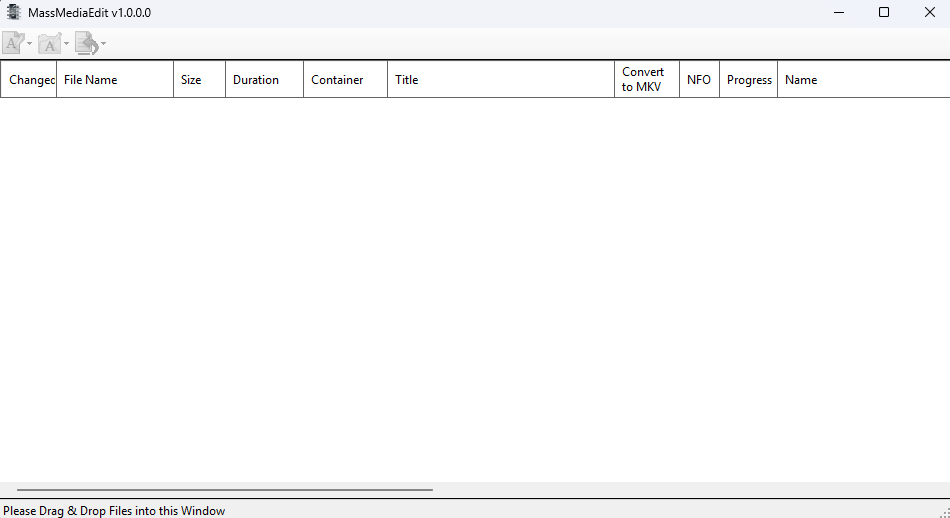
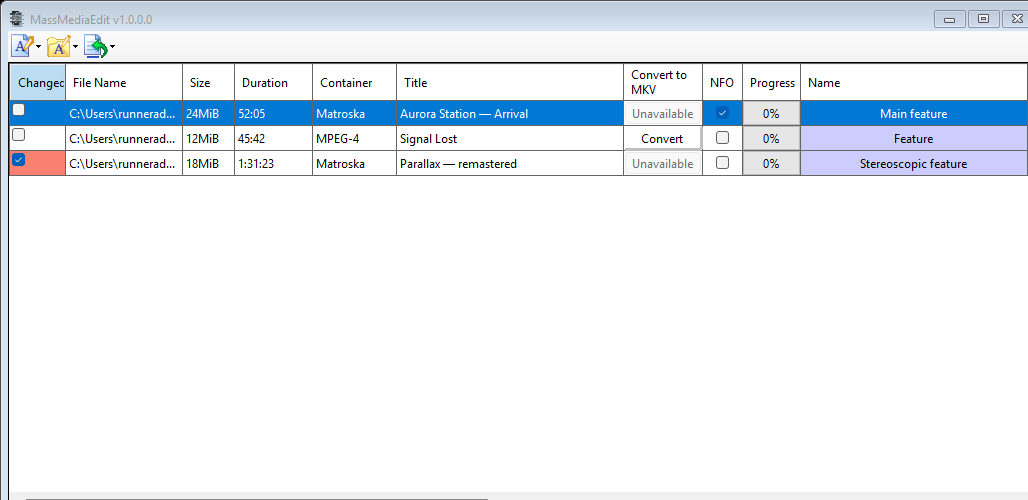
Generate README screenshot with representative demo media (#8)
* + generate README screenshot with representative demo media

* * refresh the application screenshot

---------

Changed region(s): [[0.0, 0.0, 1.0, 1.0]]

diff --git a/MassMediaEdit/Documentation/ScreenshotDemoData.cs b/MassMediaEdit/Documentation/ScreenshotDemoData.cs
@@ -1,0 +1,196 @@
+using System;
+using System.Collections.Generic;
+using System.Drawing;
+using System.Drawing.Imaging;
+using System.IO;
+using System.Windows.Forms;
+using Classes;
+using Models;
+
+namespace MassMediaEdit.Documentation;
+
+/// <summary>
+/// Creates representative, deterministic rows for generated documentation screenshots.
+/// This path deliberately bypasses MediaInfo and the other external tools so screenshot generation
+/// cannot depend on binaries, codecs, or media files installed on the runner.
+/// </summary>
+internal sealed class ScreenshotDemoData : IDisposable {
+  public const string Argument = "--screenshot-demo";
+
+  private readonly DirectoryInfo _directory;
+
+  private ScreenshotDemoData(DirectoryInfo directory, IReadOnlyList<GuiMediaItem> items) {
+    this._directory = directory;
+    this.Items = items;
+  }
+
+  public IReadOnlyList<GuiMediaItem> Items { get; }
+
+  /// <summary>
+  /// Builds a small data set that exercises the grid's important states: MKV editing, conversion
+  /// from another container, NFO presence, two audio tracks, pending changes, and stereoscopic video.
+  /// </summary>
+  public static ScreenshotDemoData Create() {
+    var directory = new DirectoryInfo(Path.Combine(Path.GetTempPath(), "MassMediaEdit", "ScreenshotDemo"));
+    if (directory.Exists)
+      directory.Delete(recursive: true);
+    directory.Create();
+
+    var aurora = _CreateItem(
+      directory,
+      "Aurora.Station.S01E01.2160p.mkv",
+      24L * 1024 * 1024,
+      "Matroska",
+      3_125_000,
+      "Aurora Station — Arrival",
+      "Main feature",
+      "HEVC",
+      3840,
+      2160,
+      18_000_000,
+      false,
+      new AudioDefinition("de", "DTS", 48_000, 6, 1_509_000, true),
+      new AudioDefinition("en", "AAC", 48_000, 2, 192_000, false)
+    );
+    File.WriteAllText(Path.ChangeExtension(aurora.MediaFile.File.FullName, ".nfo"), "<movie><title>Aurora Station — Arrival</title></movie>");
+
+    var signalLost = _CreateItem(
+      directory,
+      "Signal.Lost.1080p.mp4",
+      12L * 1024 * 1024,
+      "MPEG-4",
+      2_742_000,
+      "Signal Lost",
+      "Feature",
+      "AVC",
+      1920,
+      1080,
+      7_500_000,
+      false,
+      new AudioDefinition("en", "AAC", 48_000, 2, 256_000, true)
+    );
+
+    var parallax = _CreateItem(
+      directory,
+      "Parallax.3D.1080p.mkv",
+      18L * 1024 * 1024,
+      "Matroska",
+      5_483_000,
+      "Parallax",
+      "Stereoscopic feature",
+      "AVC",
+      1920,
+      1080,
+      12_000_000,
+      true,
+      new AudioDefinition("ja", "FLAC", 48_000, 2, 980_000, true),
+      new AudioDefinition("en", "AC-3", 48_000, 6, 640_000, false)
+    );
+    parallax.Title = "Parallax — remastered";
+
+    return new ScreenshotDemoData(directory, [aurora, signalLost, parallax]);
+  }
+
+  /// <summary>
+  /// Applies the documentation-only presentation state to the real form and optionally captures it
+  /// after WinForms has shown and laid out the window.
+  /// </summary>
+  public void ApplyTo(MainForm form, FileInfo? screenshotOutput = null) {
+    ArgumentNullException.ThrowIfNull(form);
+
+    form.StartPosition = FormStartPosition.CenterScreen;
+    form.ClientSize = new Size(1180, 500);
+    form.AddItems(this.Items);
+
+    if (screenshotOutput is null)
+      return;
+
+    form.Shown += (_, _) => form.BeginInvoke(new Action(() => {
+      screenshotOutput.Directory?.Create();
+      form.Refresh();
+
+      using var bitmap = new Bitmap(form.ClientSize.Width, form.ClientSize.Height);
+      form.DrawToBitmap(bitmap, new Rectangle(Point.Empty, bitmap.Size));
+      bitmap.Save(screenshotOutput.FullName, ImageFormat.Png);
+      form.Close();
+    }));
+  }
+
+  public void Dispose() {
+    try {
+      if (this._directory.Exists)
+        this._directory.Delete(recursive: true);
+    } catch (IOException) {
+      // A killed screenshot process may still have a handle in flight. The runner is ephemeral.
+    } catch (UnauthorizedAccessException) {
+      // Cleanup is best-effort and must not turn a successful application close into an error.
+    }
+  }
+
+  private static GuiMediaItem _CreateItem(
+    DirectoryInfo directory,
+    string fileName,
+    long fileSize,
+    string container,
+    long durationInMilliseconds,
+    string title,
+    string videoName,
+    string videoFormat,
+    int width,
+    int height,
+    int videoBitRate,
+    bool isStereoscopic,
+    params AudioDefinition[] audioDefinitions
+  ) {
+    var file = new FileInfo(Path.Combine(directory.FullName, fileName));
+    using (var stream = file.Create())
+      stream.SetLength(fileSize);
+    file.Refresh();
+
+    List<MediaStream> streams = [
+      new GeneralStream(_Section(
+        ("codec", "Container"),
+        ("codec", container),
+        ("duration", durationInMilliseconds.ToString()),
+        ("title", title)
+      )),
+      new VideoStream(_Section(
+        ("title", videoName),
+        ("format", videoFormat),
+        ("width", width.ToString()),
+        ("height", height.ToString()),
+        ("bit rate", videoBitRate.ToString()),
+        ("MultiView_Count", isStereoscopic ? "2" : "1"),
+        ("MultiView_Layout", isStereoscopic ? "Side by side (left eye is first)" : string.Empty)
+      ))
+    ];
+
+    foreach (var audio in audioDefinitions)
+      streams.Add(new AudioStream(_Section(
+        ("default", audio.IsDefault ? "Yes" : "No"),
+        ("language", audio.Language),
+        ("format", audio.Format),
+        ("sampling rate", audio.SamplingRate.ToString()),
+        ("channel(s)", audio.Channels.ToString()),
+        ("bit rate", audio.BitRate.ToString())
+      )));
+
+    return GuiMediaItem.FromMediaFile(new MediaFile(file, streams.ToArray()));
+  }
+
+  private static SectionDictionary _Section(params (string Key, string Value)[] values) {
+    var result = new SectionDictionary();
+    foreach (var (key, value) in values)
+      result.Add(key, value);
+    return result;
+  }
+
+  private readonly record struct AudioDefinition(
+    string Language,
+    string Format,
+    int SamplingRate,
+    int Channels,
+    int BitRate,
+    bool IsDefault
+  );
+}

diff --git a/MassMediaEdit/Program.cs b/MassMediaEdit/Program.cs
@@ -1,6 +1,9 @@
-using System.IO;
+using System;
+using System.IO;
+using System.Linq;
 using System.Windows.Forms;
 using Classes;
+using MassMediaEdit.Documentation;
 using MassMediaEdit.Presenters;
 using MassMediaEdit.Properties;
 using MassMediaEdit.Services;
@@ -21,6 +24,12 @@ internal static class Program {
     Application.EnableVisualStyles();
     Application.SetCompatibleTextRenderingDefault(false);
 
+    var screenshotArgument = args?.FirstOrDefault(arg =>
+      string.Equals(arg, ScreenshotDemoData.Argument, StringComparison.OrdinalIgnoreCase)
+      || arg.StartsWith(ScreenshotDemoData.Argument + "=", StringComparison.OrdinalIgnoreCase)
+    );
+    using var screenshotDemo = screenshotArgument is not null ? ScreenshotDemoData.Create() : null;
+
     // Create the main form (View in MVP)
     using var mainForm = new MainForm();
 
@@ -32,8 +41,16 @@ internal static class Program {
     var presenter = new MainPresenter(backgroundTaskRunner, uiSynchronizer);
     presenter.Initialize(mainForm);
 
-    // Handle command-line arguments
-    if (args is { Length: > 0 } && !string.IsNullOrWhiteSpace(args[0]))
+    // Documentation screenshots use deterministic, pre-parsed media rows and never invoke the external tools.
+    if (screenshotDemo is not null) {
+      FileInfo? screenshotOutput = null;
+      if (screenshotArgument!.StartsWith(ScreenshotDemoData.Argument + "=", StringComparison.OrdinalIgnoreCase)) {
+        var outputPath = screenshotArgument[(ScreenshotDemoData.Argument.Length + 1)..];
+        if (!string.IsNullOrWhiteSpace(outputPath))
+          screenshotOutput = new FileInfo(Path.GetFullPath(outputPath));
+      }
+      screenshotDemo.ApplyTo(mainForm, screenshotOutput);
+    } else if (args is { Length: > 0 } && !string.IsNullOrWhiteSpace(args[0]))
       presenter.AddFile(new FileInfo(args[0]));
 
     Application.Run(mainForm);

diff --git a/MassMediaEdit.Tests/Documentation/ScreenshotDemoDataTests.cs b/MassMediaEdit.Tests/Documentation/ScreenshotDemoDataTests.cs
@@ -1,0 +1,37 @@
+using System.IO;
+using System.Linq;
+using Classes;
+using MassMediaEdit.Documentation;
+using NUnit.Framework;
+
+namespace MassMediaEdit.Tests.Documentation;
+
+[TestFixture]
+public sealed class ScreenshotDemoDataTests {
+  [Test]
+  public void DemoRowsExerciseTheImportantGridStates() {
+    using var data = ScreenshotDemoData.Create();
+
+    Assert.Multiple(() => {
+      Assert.That(data.Items, Has.Count.EqualTo(3));
+      Assert.That(data.Items.Count(item => item.IsMkvContainer), Is.EqualTo(2));
+      Assert.That(data.Items.Count(item => item.IsMkvConversionEnabled), Is.EqualTo(1));
+      Assert.That(data.Items.Any(item => item.HasNfo), Is.True);
+      Assert.That(data.Items.Any(item => item.HasAudio1), Is.True);
+      Assert.That(data.Items.Any(item => item.NeedsCommit), Is.True);
+      Assert.That(data.Items.Any(item => item.Video0StereoscopicMode != StereoscopicMode.None), Is.True);
+    });
+  }
+
+  [Test]
+  public void DemoRowsUseRealTemporaryFilesAndCleanupRemovesThem() {
+    var data = ScreenshotDemoData.Create();
+    var files = data.Items.Select(item => item.MediaFile.File.FullName).ToArray();
+
+    Assert.That(files.All(File.Exists), Is.True);
+
+    data.Dispose();
+
+    Assert.That(files.All(file => !File.Exists(file)), Is.True);
+  }
+}
